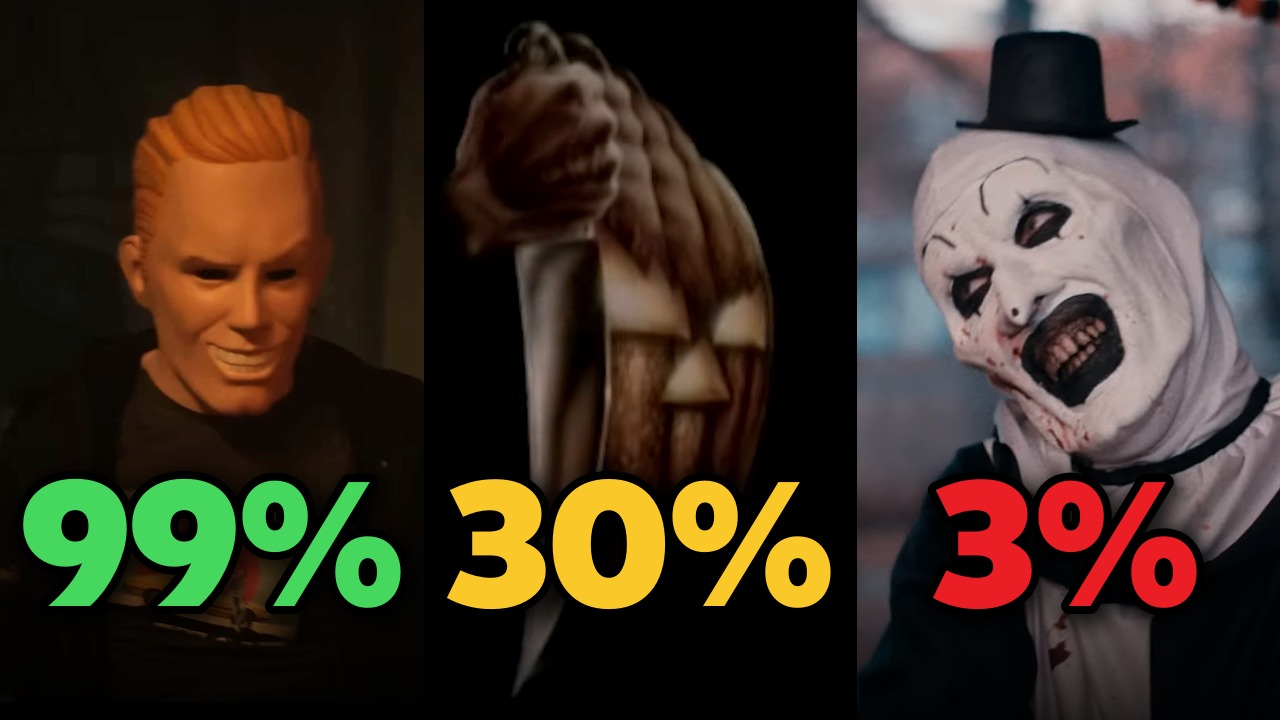
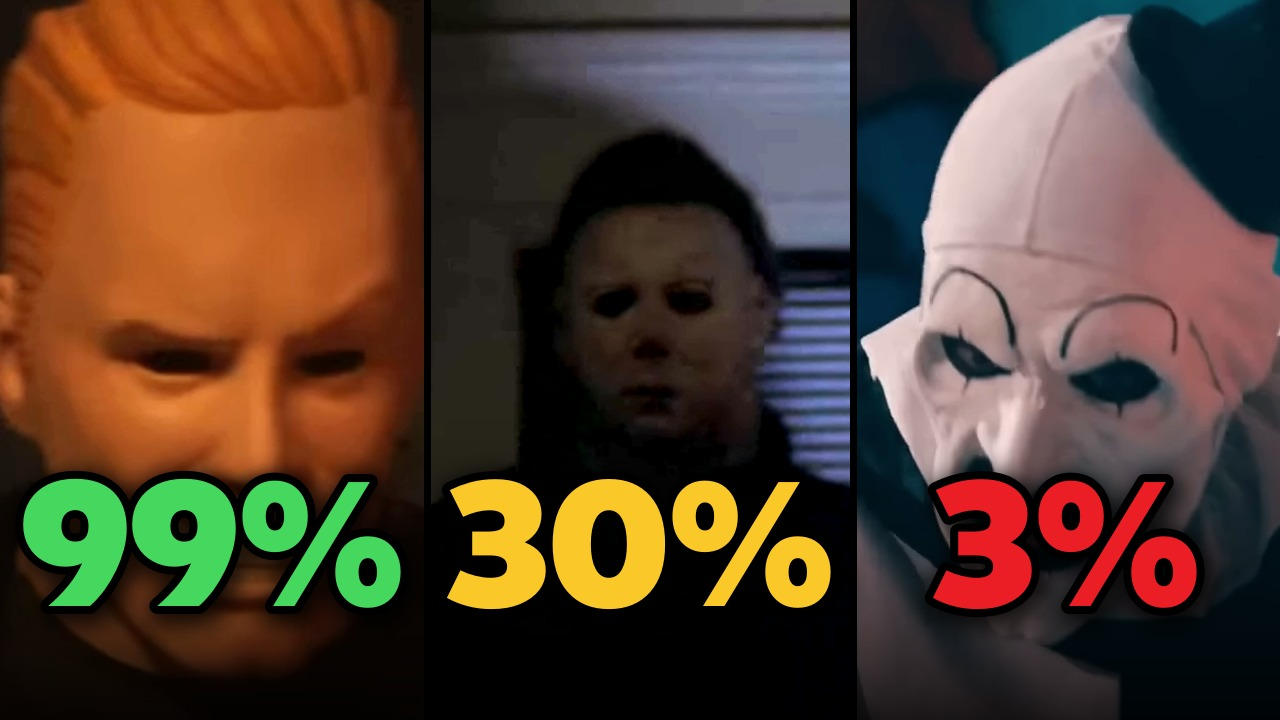
Halloween thumbs v2: green/yellow/red by position, three distinct villain sets, zoomed-in HD faces; skill: thumbnail standing rule

diff --git a/concepts/i444/ep_halloween/thumbs.py b/concepts/i444/ep_halloween/thumbs.py
@@ -15,7 +15,8 @@ GREEN = (70, 215, 95, 255); YEL = (250, 200, 40, 255); RED = (235, 30, 38, 255);
 def frame(clip, t):
     png = subprocess.check_output(['ffmpeg', '-v', 'error', '-ss', str(t), '-i', os.path.join(CLIPS, clip + '.mp4'), '-frames:v', '1',
                                    '-f', 'image2pipe', '-vcodec', 'png', '-'])
-    return Image.open(io.BytesIO(png)).convert('RGB')
+    im = Image.open(io.BytesIO(png)).convert('RGB')
+    return im if im.size == (1920, 1080) else im.resize((1920, 1080), Image.LANCZOS)   # 1440p sources -> 1920x1080 coordinates
 def grade(im, bright=1.0, contrast=1.12, sat=0.9):
     im = ImageEnhance.Brightness(im).enhance(bright); im = ImageEnhance.Contrast(im).enhance(contrast)
     return ImageEnhance.Color(im).enhance(sat)
@@ -23,6 +24,7 @@ def panel(sp, pw):
     """crop a pw x H window around the face (cx, cy in 1920x1080), face height = face_px in the output"""
     im = grade(frame(sp['clip'], sp['t']), sp.get('bright', 1.0))
     s = sp['face_px'] / sp['face_h']                      # output px per source px
+    s = max(s, H / 1080, pw / 1920)                      # never smaller than the panel (no black bars)
     big = im.resize((int(1920 * s), int(1080 * s)), Image.LANCZOS)
     cx, cy = sp['cx'] * s, sp['cy'] * s
     x0 = int(min(max(cx - pw / 2, 0), big.width - pw)); y0 = int(min(max(cy - sp.get('eye_y', 250), 0), big.height - H))
@@ -37,21 +39,13 @@ def three(specs, name):
     for k in (1, 2): gx = sum(PW[:k]); d.rectangle([gx - 3, 0, gx + 3, H], fill=(0, 0, 0, 255))
     for sp, pw in zip(specs, PW): shadow_text(im, (x + pw // 2, H - 178), sp['pct'], f(182), sp['col'], stroke=8); x += pw
     im.convert('RGB').save(os.path.join(OUT, name), quality=92); print(name)
-SLAPPY = dict(clip='gb2_dummy', t=314, cx=965, cy=330, face_h=320, face_px=290, eye_y=180, pct='98%', col=GREEN, bright=1.25)
-MICHAEL = dict(clip='h78_trailer_rt', t=1.5, cx=640, cy=420, face_h=800, face_px=560, pct='30%', col=YEL, eye_y=235)
-SAM = dict(clip='trt_wbuk_sam_hd', t=163.5, cx=720, cy=420, face_h=520, face_px=380, pct='40%', col=YEL, eye_y=200, bright=1.5)
-SWEET16 = dict(clip='tk_trailer', t=101.6, cx=820, cy=380, face_h=420, face_px=310, pct='99%', col=GREEN, eye_y=230, bright=1.5)
-ART = dict(clip='t2_trailer', t=48.2, cx=730, cy=400, face_h=480, face_px=380, pct='3%', col=RED, eye_y=250)
+# owner 10/31 13:48 (standing rule): left GREEN %, middle YELLOW %, right RED %; the three variants must look very different;
+# zoomed in, the face fills most of the panel with the eyes in the upper third, % below the face. Coordinates = 1920x1080 frame.
+def P(clip, t, cx, cy, face_h, pct, col, bright=1.15, face_px=430, eye_y=300): return dict(clip=clip, t=t, cx=cx, cy=cy, face_h=face_h, pct=pct, col=col, bright=bright, face_px=face_px, eye_y=eye_y)
 os.makedirs(OUT, exist_ok=True)
-three([SWEET16, MICHAEL, ART], 'halloween_thumb_a.jpg')   # owner 10/31: Goosebumps 2 dropped, so no Slappy
-three([dict(SAM), MICHAEL, ART], 'halloween_thumb_b.jpg')
-# C: Art alone, full frame, huge red 3% and a small orange HALLOWEEN NIGHT tag
-im = grade(frame('t1_trailer', 22.6)).resize((W, H), Image.LANCZOS).convert('RGBA')
-im = im.crop((0, 0, W, H))
-sh = Image.new('RGBA', (W, H), (0, 0, 0, 0)); v = np.linspace(0, 1, W)[None, :]
-a = (np.clip((v - 0.45) / 0.4, 0, 1) * 170).astype(np.uint8); sh.putalpha(Image.fromarray(np.repeat(a, H, 0), 'L')); im.alpha_composite(sh)
-shadow_text(im, (1010, 400), '3%', f(330), RED, stroke=10)
-d = ImageDraw.Draw(im); tw = d.textlength('HALLOWEEN NIGHT', font=f(54)) + 44
-d.rounded_rectangle([1010 - tw / 2, 560, 1010 + tw / 2, 636], 14, fill=ORANGE)
-d.text((1010, 600), 'HALLOWEEN NIGHT', font=f(54), fill=(15, 12, 12), anchor='mm')
-im.convert('RGB').save(os.path.join(OUT, 'halloween_thumb_c.jpg'), quality=92); print('halloween_thumb_c.jpg')
+three([P('tk_trailer', 101.6, 840, 360, 260, '99%', GREEN, 1.6, eye_y=230), P('h78_best_hd', 402.5, 1140, 360, 230, '30%', YEL, 1.8, face_px=340, eye_y=260),
+       P('t2_cafe_hd', 260.6, 1150, 640, 420, '3%', RED, 1.1, face_px=380, eye_y=300)], 'halloween_thumb_a.jpg')
+three([P('ss_nc_harold', 11.8, 1320, 470, 640, '50%', GREEN, 1.1, face_px=520, eye_y=260), P('trt_wbuk_sam_hd', 144.5, 600, 400, 700, '40%', YEL, 1.5, face_px=480, eye_y=260),
+       P('t2_sienna_hd', 186.5, 640, 600, 470, '3%', RED, 1.25)], 'halloween_thumb_b.jpg')
+three([P('h3_skull_hd', 120, 1080, 460, 430, '60%', GREEN, 1.5), P('hf_maze_hd', 28.5, 680, 480, 440, '45%', YEL, 1.6),
+       P('t1_meet_hd', 223.0, 600, 470, 560, '6%', RED, 1.1)], 'halloween_thumb_c.jpg')

diff --git a/concepts/i444/skill/horror-ranked-episode/SKILL.md b/concepts/i444/skill/horror-ranked-episode/SKILL.md
@@ -79,7 +79,10 @@ scores, no hits. Music at -39 LUFS with a 3 kHz high-shelf -4 dB, voice -15 LUFS
    (render_v2 copy with a per-clip `bar` height; ~2.5 min per section).
 2. QA grid of one frame per shot from the render (`qa/shots.py`) + the cold open frame by frame against the word onsets; loudness check.
 3. Phone copy (1280x720 crf 28, ~27 MB) and show the owner before any upload; upload only after their OK.
-4. Thumbnails: C layout 1280x720, three panels 427/426/427, black gutters, f(182) % in tier colours (green/yellow/red), the deadliest face biggest,
-   from HD frames of the official clips. Plus a single-villain variant with a huge red %.
+4. Thumbnails (owner 10/31, standing rule): always 3 variants, each 3 panels (1280x720, 427/426/427, black gutters) with the %
+   in f(182): LEFT GREEN, MIDDLE YELLOW, RIGHT RED (by position, whatever the tier). The three variants must look very different
+   (e.g. Ghostface: A = Ghostface / character 1 / character 2, B = Ghostface 1 / Ghostface 2 / Ghostface 3). Zoomed in: the face fills
+   most of the panel, eyes in the upper third, the % below the face, brighten dark faces a little; sharp HD frames of the official clips
+   only (`ep_halloween/thumbs.py`, P(clip, t, cx, cy, face_h, pct, col, ...)).
 5. `make_srt.py` (alignment, cues <= 42 chars / 2.8 s), chapters from the section starts into `upload/upload_kit_vN.md`. Tags: short popular words.
 6. Commit scripts, md, tiles, thumbs, srt; push the branch. Report in max 3 lines per milestone.

diff --git a/concepts/i444/ep_halloween/upload/upload_kit_v1.md b/concepts/i444/ep_halloween/upload/upload_kit_v1.md
@@ -8,10 +8,10 @@ enders\halloween_v7.mp4 | Subtitles: upload/halloween_ranked_en_v4.srt | Thumbna
 2. Could You Survive Halloween Night in These 10 Horror Movies?
 3. 10 Halloween Horror Movies Ranked From Easiest to Deadliest Night
 
-## Thumbnails (3 panels, the EP03 layout; source = HD frames from the official trailers/clips)
-A. Sweet Sixteen Killer 99% (green) / Michael Myers 30% (yellow) / Art the Clown 3% (red), Art biggest (Slappy dropped 10/31)
-B. Sam (Trick 'r Treat) 40% / Michael 30% / Art 3%
-C. Art alone, full frame, huge red "3%" and a small orange "HALLOWEEN NIGHT" tag
+## Thumbnails (left GREEN / middle YELLOW / right RED; three very different variants)
+A. Sweet Sixteen Killer 99% / Michael Myers 30% / Art the Clown (Terrifier 2) 3%
+B. Harold the scarecrow (Scary Stories) 50% / Sam (Trick 'r Treat) 40% / bloody Art (Terrifier 2) 3%
+C. Silver Shamrock skull mask (Halloween III) 60% / The Other (Hell Fest) 45% / Art (Terrifier) 6%
 
 ## Description
 Tonight is the one night a year a mask doesn't look suspicious. So which Halloween night horror movie could you actually survive? We score every killer on strength, intelligence, kill count and how supernatural they are, then rank all ten from the easiest night to the deadliest one, from Totally Killer and Trick 'r Treat to Michael Myers and Art the Clown.
